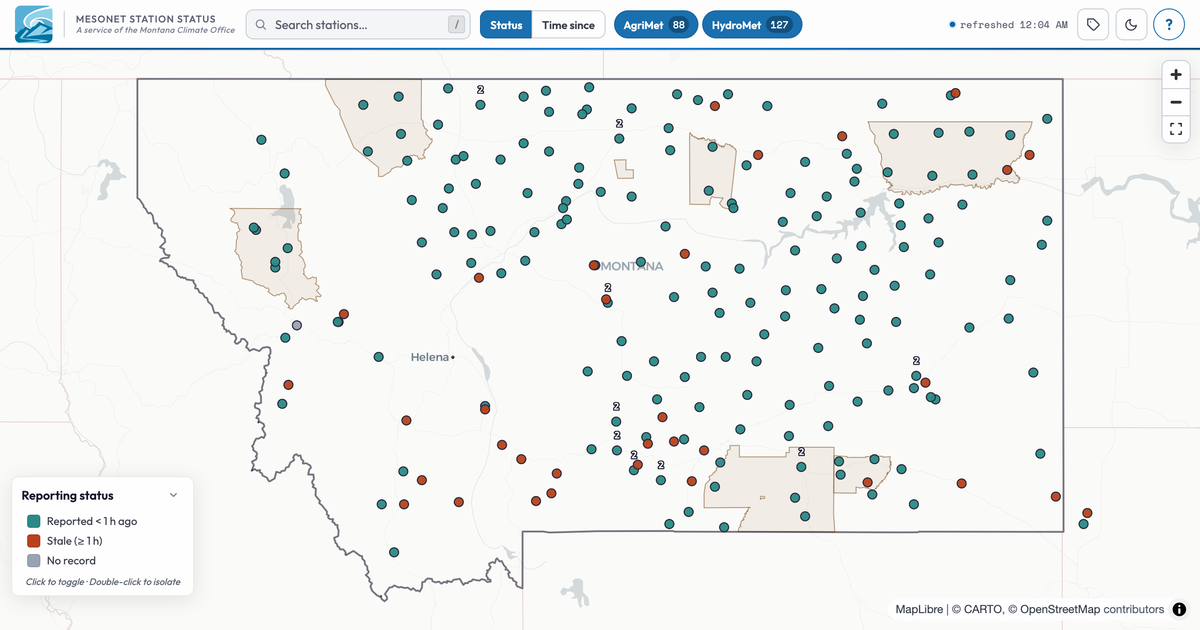
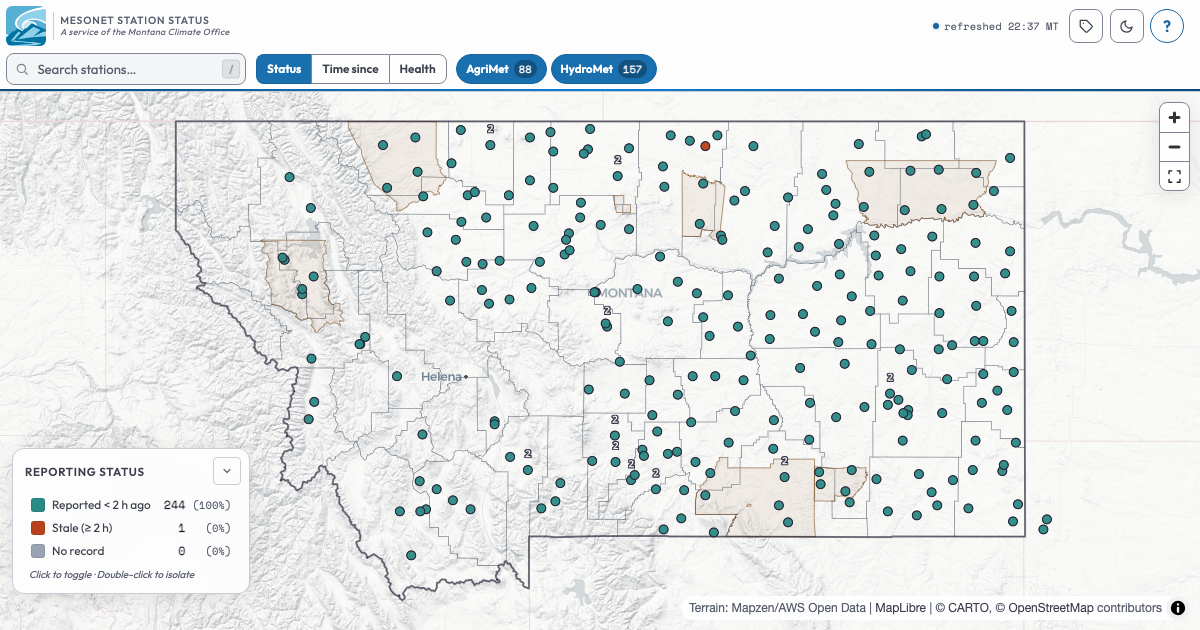
Regenerate the social preview image nightly
Mirrors mesonet-photo-explorer: a scheduled workflow runs a Playwright
script against the live Pages site and commits assets/og-card.png back
to main. The card is a 1200x630 screenshot of ?mode=status, matching
the hand-made card it replaces.

Changed region(s): [[0.0, 0.0, 1.0, 1.0], [0.8942, 0.2714, 1.0, 0.3921], [0.0308, 0.573, 0.0617, 0.6032]]

diff --git a/scripts/generate_preview.py b/scripts/generate_preview.py
@@ -1,0 +1,57 @@
+#!/usr/bin/env python3
+"""
+Generate assets/og-card.png by screenshotting the live GitHub Pages site at
+1200×630 (the og:image size; larger cards are rejected by Teams).
+
+?mode=status is a deep-link param, so it pins the Status view and suppresses
+the first-visit help dialog without touching the app. The card is the page
+itself — navbar, legend and all — exactly as a visitor sees it.
+
+Usage:
+    pip install playwright
+    playwright install --with-deps chromium
+    python scripts/generate_preview.py
+"""
+
+from pathlib import Path
+
+from playwright.sync_api import sync_playwright
+
+OUT   = Path(__file__).parent.parent / "assets" / "og-card.png"
+URL   = "https://mt-climate-office.github.io/mesonet-status/"
+QUERY = "mode=status"
+# After the station data lands (the refresh stamp reads "refreshed …"), give
+# the basemap tiles and the dot layer time to finish painting.
+SETTLE_MS = 4_000
+
+
+def main() -> None:
+    with sync_playwright() as p:
+        browser = p.chromium.launch()
+        ctx = browser.new_context(
+            viewport={"width": 1200, "height": 630},
+            device_scale_factor=1,
+            color_scheme="light",
+        )
+        page = ctx.new_page()
+
+        # Surface any JS errors or console warnings to stdout for debugging.
+        page.on("console", lambda msg: print(f"  [{msg.type}] {msg.text}") if msg.type != "log" else None)
+        page.on("pageerror", lambda err: print(f"  [pageerror] {err}"))
+
+        print(f"Loading {URL}?{QUERY} …")
+        page.goto(f"{URL}?{QUERY}", wait_until="networkidle", timeout=60_000)
+        page.wait_for_function(
+            "document.getElementById('refresh-stamp')?.textContent.startsWith('refreshed')",
+            timeout=60_000,
+        )
+        page.wait_for_timeout(SETTLE_MS)
+
+        page.screenshot(path=str(OUT))
+        print(f"Preview saved → {OUT}")
+
+        browser.close()
+
+
+if __name__ == "__main__":
+    main()

diff --git a/README.md b/README.md
@@ -97,6 +97,18 @@ Published via [GitHub Pages](https://pages.github.com) from the `main` branch. T
 2. Repo → Settings → Pages → Build and deployment → Source: **Deploy from a branch**, Branch: **main / (root)**.
 3. Site goes live at `https://<owner>.github.io/mesonet-status/` within a minute or two. Add a `CNAME` file later if you want a custom subdomain.
 
+### Social preview image
+
+`.github/workflows/preview.yml` runs nightly (and on manual dispatch) and **commits `assets/og-card.png` back to `main`** — always pull/rebase before pushing, or you race it.
+
+`scripts/generate_preview.py` screenshots the live Pages site at 1200×630 (the `og:image` size) with `?mode=status`, which pins the Status view and, as a deep link, keeps the first-visit help dialog closed. It waits for the `#refresh-stamp` text to read `refreshed …` and then 4 seconds for tiles to paint — that param, element id and stamp text are a contract with the script. Run it locally to check:
+
+```sh
+pip install playwright
+playwright install --with-deps chromium
+python scripts/generate_preview.py
+```
+
 ## Tooling
 
 - [MapLibre GL JS](https://maplibre.org) v5.18 via CDN.
